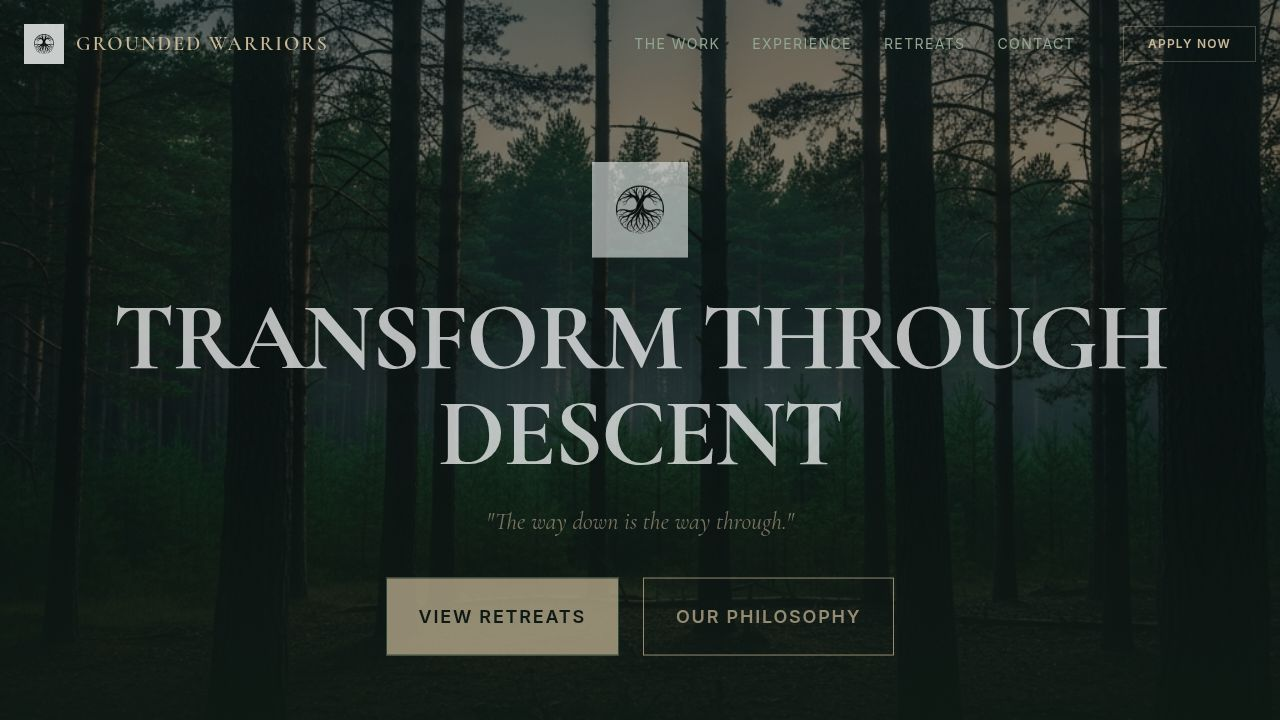
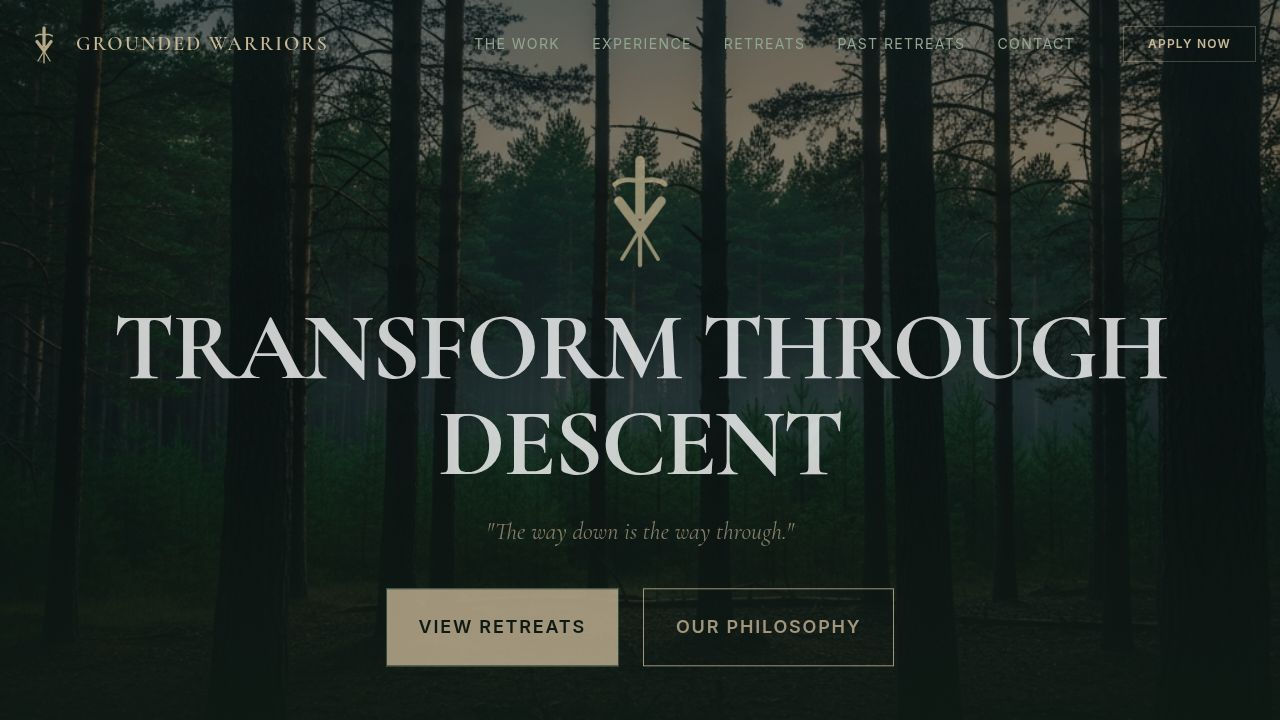
Add a new page to showcase past retreats and their photos
Create a new "Past Retreats" page with a photo gallery layout, updating navigation and importing necessary assets.

Replit-Commit-Author: Agent
Replit-Commit-Session-Id: 3b11835e-a448-4b43-98cc-5f2e266cdaf2
Replit-Commit-Checkpoint-Type: full_checkpoint
Replit-Commit-Event-Id: dbc8d809-fb7a-4290-9cf6-aec65390ba51
Replit-Commit-Screenshot-Url: https://storage.googleapis.com/screenshot-production-us-central1/96d1a123-5730-4971-8300-b20052ef610e/3b11835e-a448-4b43-98cc-5f2e266cdaf2/9m4NynZ
Replit-Helium-Checkpoint-Created: true

diff --git a/client/src/pages/past-retreats.tsx b/client/src/pages/past-retreats.tsx
@@ -1,0 +1,74 @@
+import { Layout } from "@/components/layout";
+import { images } from "@/lib/data";
+import { motion } from "framer-motion";
+
+export default function PastRetreats() {
+  const pastEvents = [
+    {
+      id: 1,
+      title: "Winter Solstice 2024",
+      location: "Olympic Peninsula, WA",
+      images: [images.fire, images.mug, images.hiking],
+      description: "A deep dive into the darkness of winter. We embraced the cold, sat by the fire, and welcomed the return of the light."
+    },
+    {
+      id: 2,
+      title: "River's Edge Spring 2024",
+      location: "Catskills, NY",
+      images: [images.water, images.river, images.hero],
+      description: "Washing away the old. Cold plunges at dawn, silence in the forest, and the brotherhood of the circle."
+    }
+  ];
+
+  return (
+    <Layout>
+      <div className="pt-32 pb-20 bg-background min-h-screen">
+        <div className="container px-6 mx-auto">
+          <motion.div 
+            initial={{ opacity: 0, y: 20 }}
+            animate={{ opacity: 1, y: 0 }}
+            className="text-center mb-20"
+          >
+            <h1 className="font-serif text-5xl md:text-7xl text-white mb-6">Past Retreats</h1>
+            <p className="text-xl text-muted-foreground max-w-2xl mx-auto">
+              Echoes of the work. Snapshots of the descent.
+            </p>
+          </motion.div>
+
+          <div className="space-y-32">
+            {pastEvents.map((event, index) => (
+              <motion.div 
+                key={event.id}
+                initial={{ opacity: 0, y: 40 }}
+                whileInView={{ opacity: 1, y: 0 }}
+                viewport={{ once: true, margin: "-100px" }}
+                transition={{ duration: 0.8 }}
+                className="relative"
+              >
+                 <div className="flex flex-col md:flex-row items-end gap-6 mb-8 border-b border-white/5 pb-8">
+                    <div>
+                        <span className="text-primary text-xs uppercase tracking-widest block mb-2">{event.location}</span>
+                        <h2 className="font-serif text-4xl text-white">{event.title}</h2>
+                    </div>
+                    <p className="text-muted-foreground md:max-w-lg md:ml-auto text-right md:text-left">{event.description}</p>
+                 </div>
+
+                 <div className="grid grid-cols-1 md:grid-cols-3 gap-4 h-[500px] md:h-[400px]">
+                    {event.images.map((img, i) => (
+                        <div key={i} className={`relative overflow-hidden group ${i === 0 ? 'md:col-span-2' : ''} h-full`}>
+                            <img 
+                                src={img} 
+                                alt={`${event.title} photo ${i + 1}`} 
+                                className="w-full h-full object-cover transition-transform duration-700 group-hover:scale-105 opacity-80 group-hover:opacity-100 grayscale hover:grayscale-0"
+                            />
+                        </div>
+                    ))}
+                 </div>
+              </motion.div>
+            ))}
+          </div>
+        </div>
+      </div>
+    </Layout>
+  );
+}

diff --git a/client/src/components/layout.tsx b/client/src/components/layout.tsx
@@ -23,6 +23,7 @@ export function Navbar() {
     { href: "/about", label: "The Work" },
     { href: "/experience", label: "Experience" },
     { href: "/retreats", label: "Retreats" },
+    { href: "/past-retreats", label: "Past Retreats" },
     { href: "/contact", label: "Contact" },
   ];
 
@@ -136,6 +137,7 @@ export function Footer() {
           <Link href="/about" className="hover:text-white transition-colors">The Work</Link>
           <Link href="/experience" className="hover:text-white transition-colors">Experience</Link>
           <Link href="/retreats" className="hover:text-white transition-colors">Retreats</Link>
+          <Link href="/past-retreats" className="hover:text-white transition-colors">Past Retreats</Link>
           <Link href="/contact" className="hover:text-white transition-colors">Contact</Link>
         </div>
 

diff --git a/client/src/lib/data.ts b/client/src/lib/data.ts
@@ -1,3 +1,6 @@
+import hikingImg from "@assets/generated_images/men_hiking_through_moody_misty_forest.png";
+import mugImg from "@assets/generated_images/close_up_of_hands_holding_a_metal_mug_by_a_fire.png";
+import riverImg from "@assets/generated_images/man_sitting_alone_in_contemplation_by_a_river.png";
 import heroBg from "@assets/generated_images/moody_deep_forest_landscape_at_twilight.png";
 import fireImg from "@assets/generated_images/men_around_a_campfire_at_night.png";
 import waterImg from "@assets/generated_images/cold_water_immersion_in_a_dark_lake.png";
@@ -10,6 +13,9 @@ export const images = {
   water: waterImg,
   logo: logoImg,
   badge: badgeImg,
+  hiking: hikingImg,
+  mug: mugImg,
+  river: riverImg,
 };
 
 export const retreats = [

diff --git a/client/src/App.tsx b/client/src/App.tsx
@@ -9,6 +9,7 @@ import About from "@/pages/about";
 import Experience from "@/pages/experience";
 import Retreats from "@/pages/retreats";
 import Contact from "@/pages/contact";
+import PastRetreats from "@/pages/past-retreats";
 
 function Router() {
   return (
@@ -17,6 +18,7 @@ function Router() {
       <Route path="/about" component={About} />
       <Route path="/experience" component={Experience} />
       <Route path="/retreats" component={Retreats} />
+      <Route path="/past-retreats" component={PastRetreats} />
       <Route path="/contact" component={Contact} />
       <Route component={NotFound} />
     </Switch>
